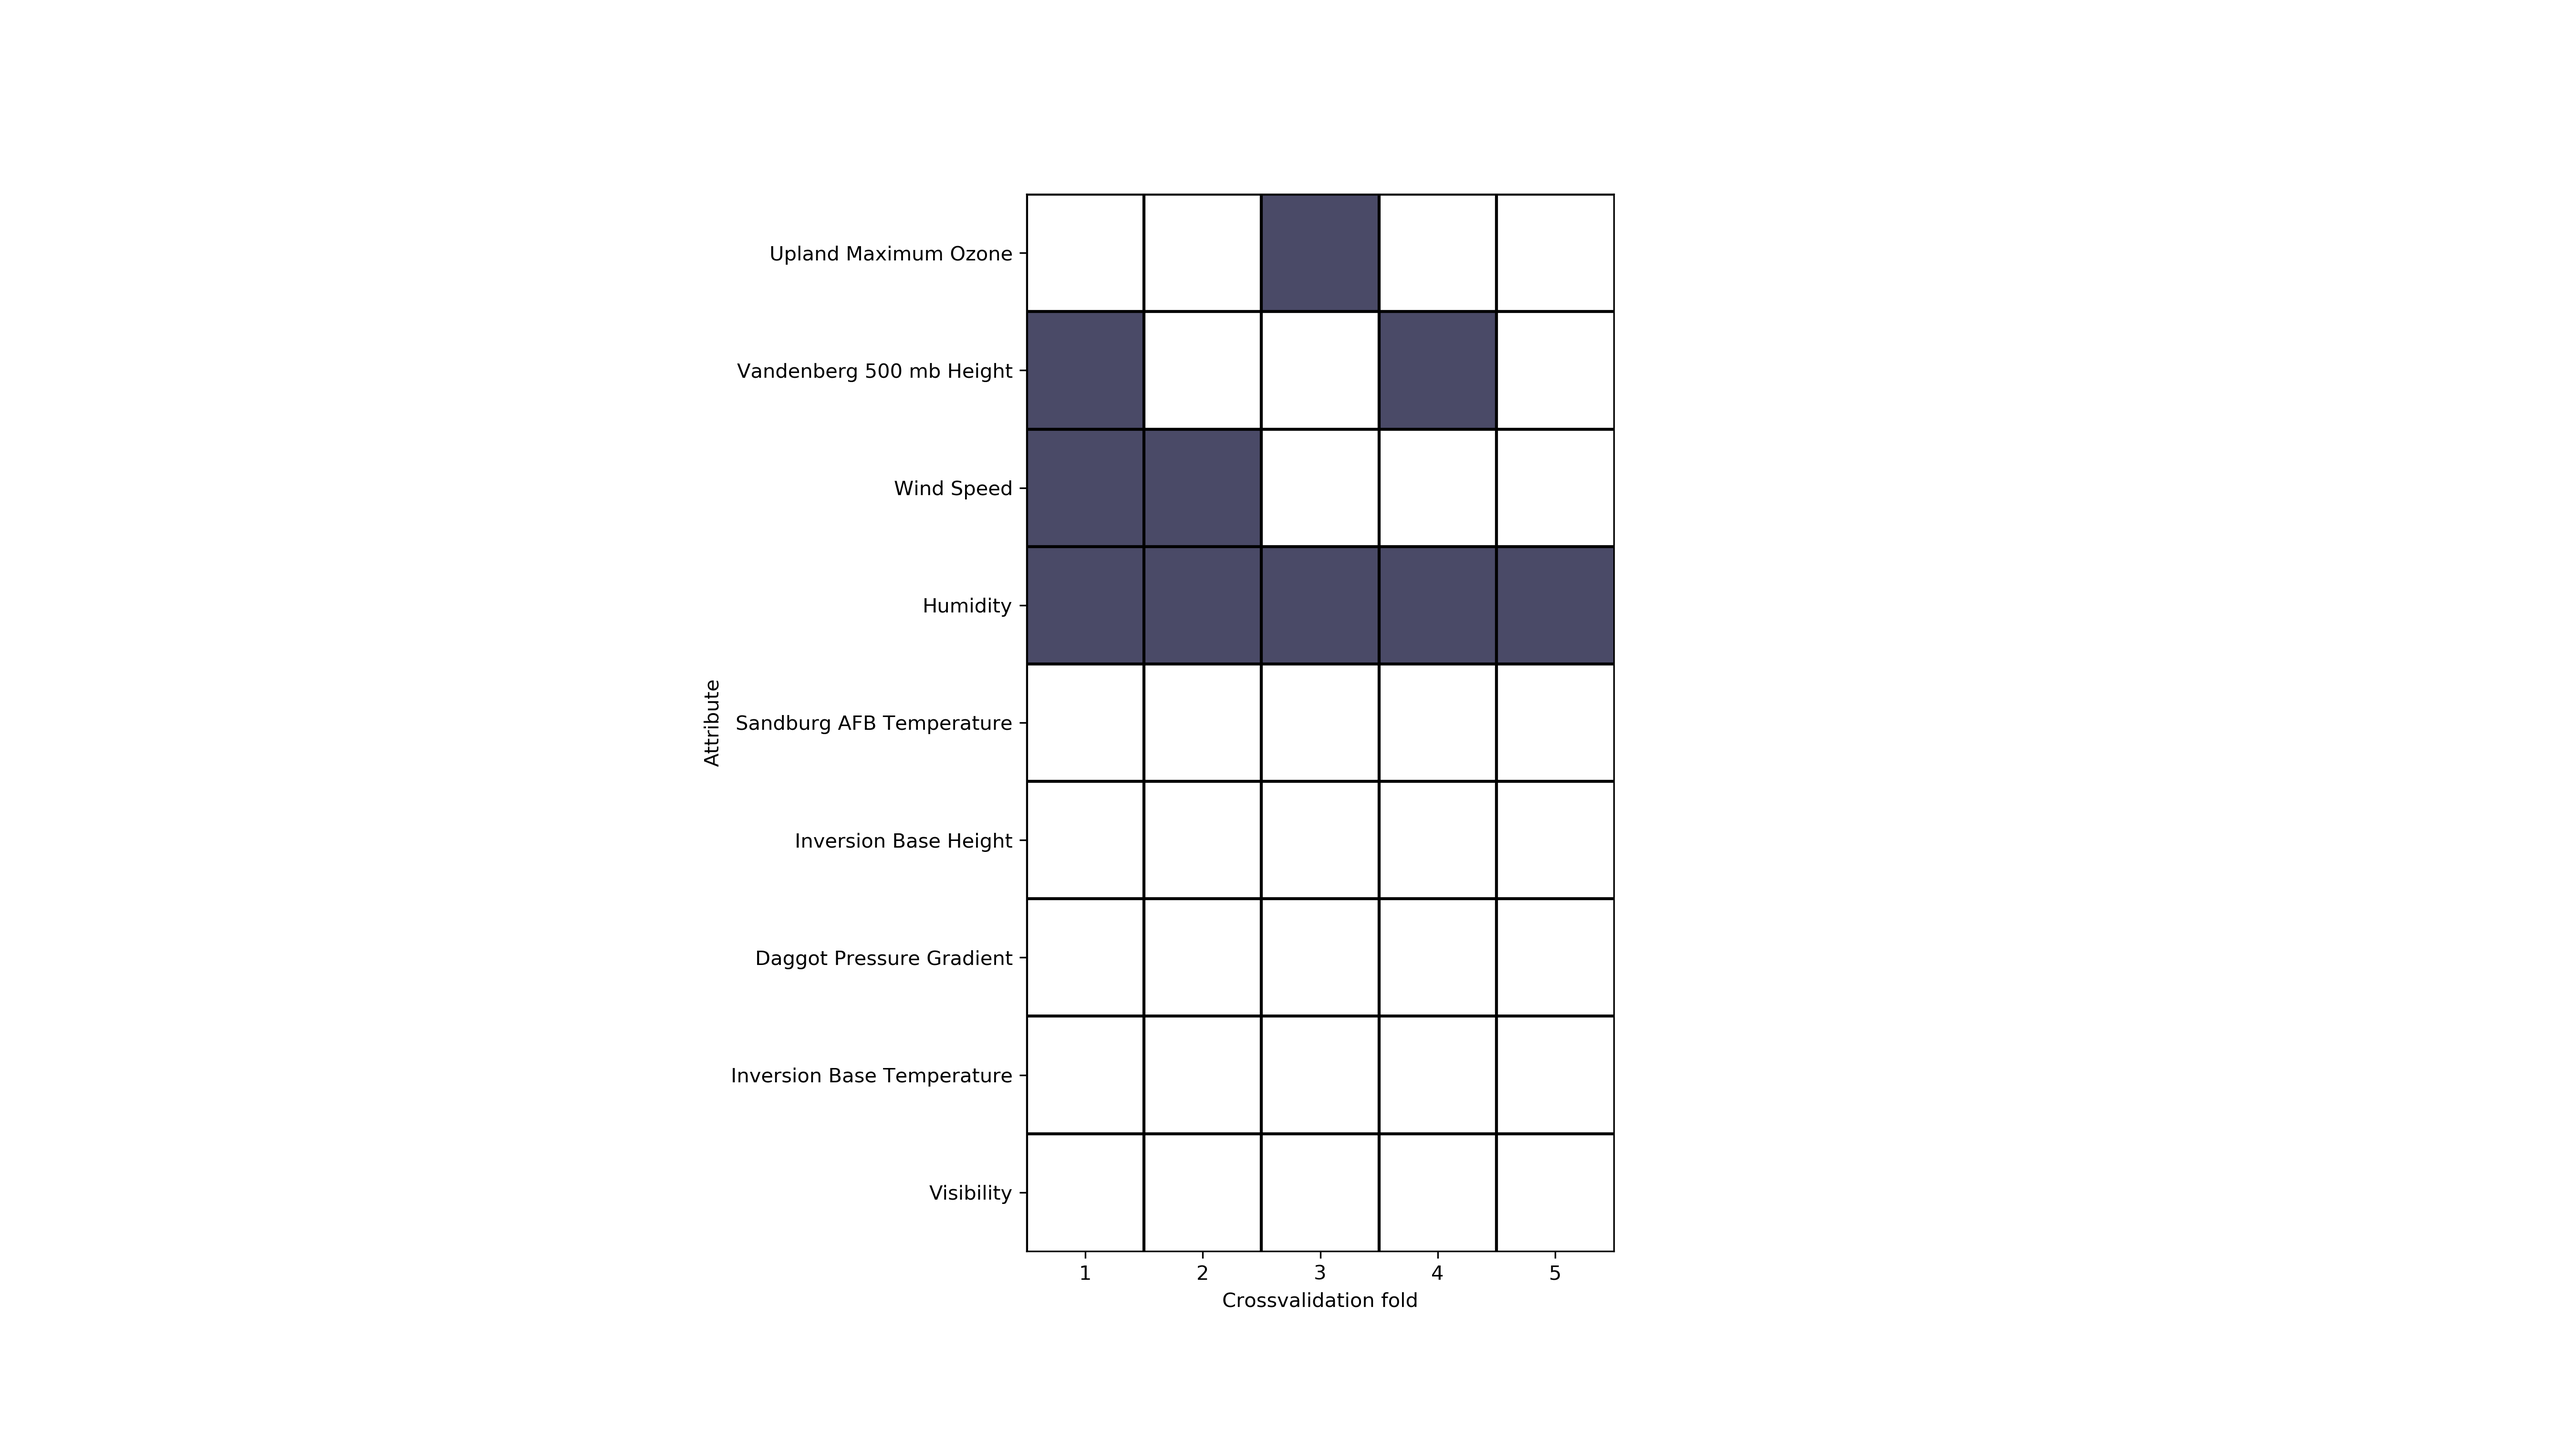
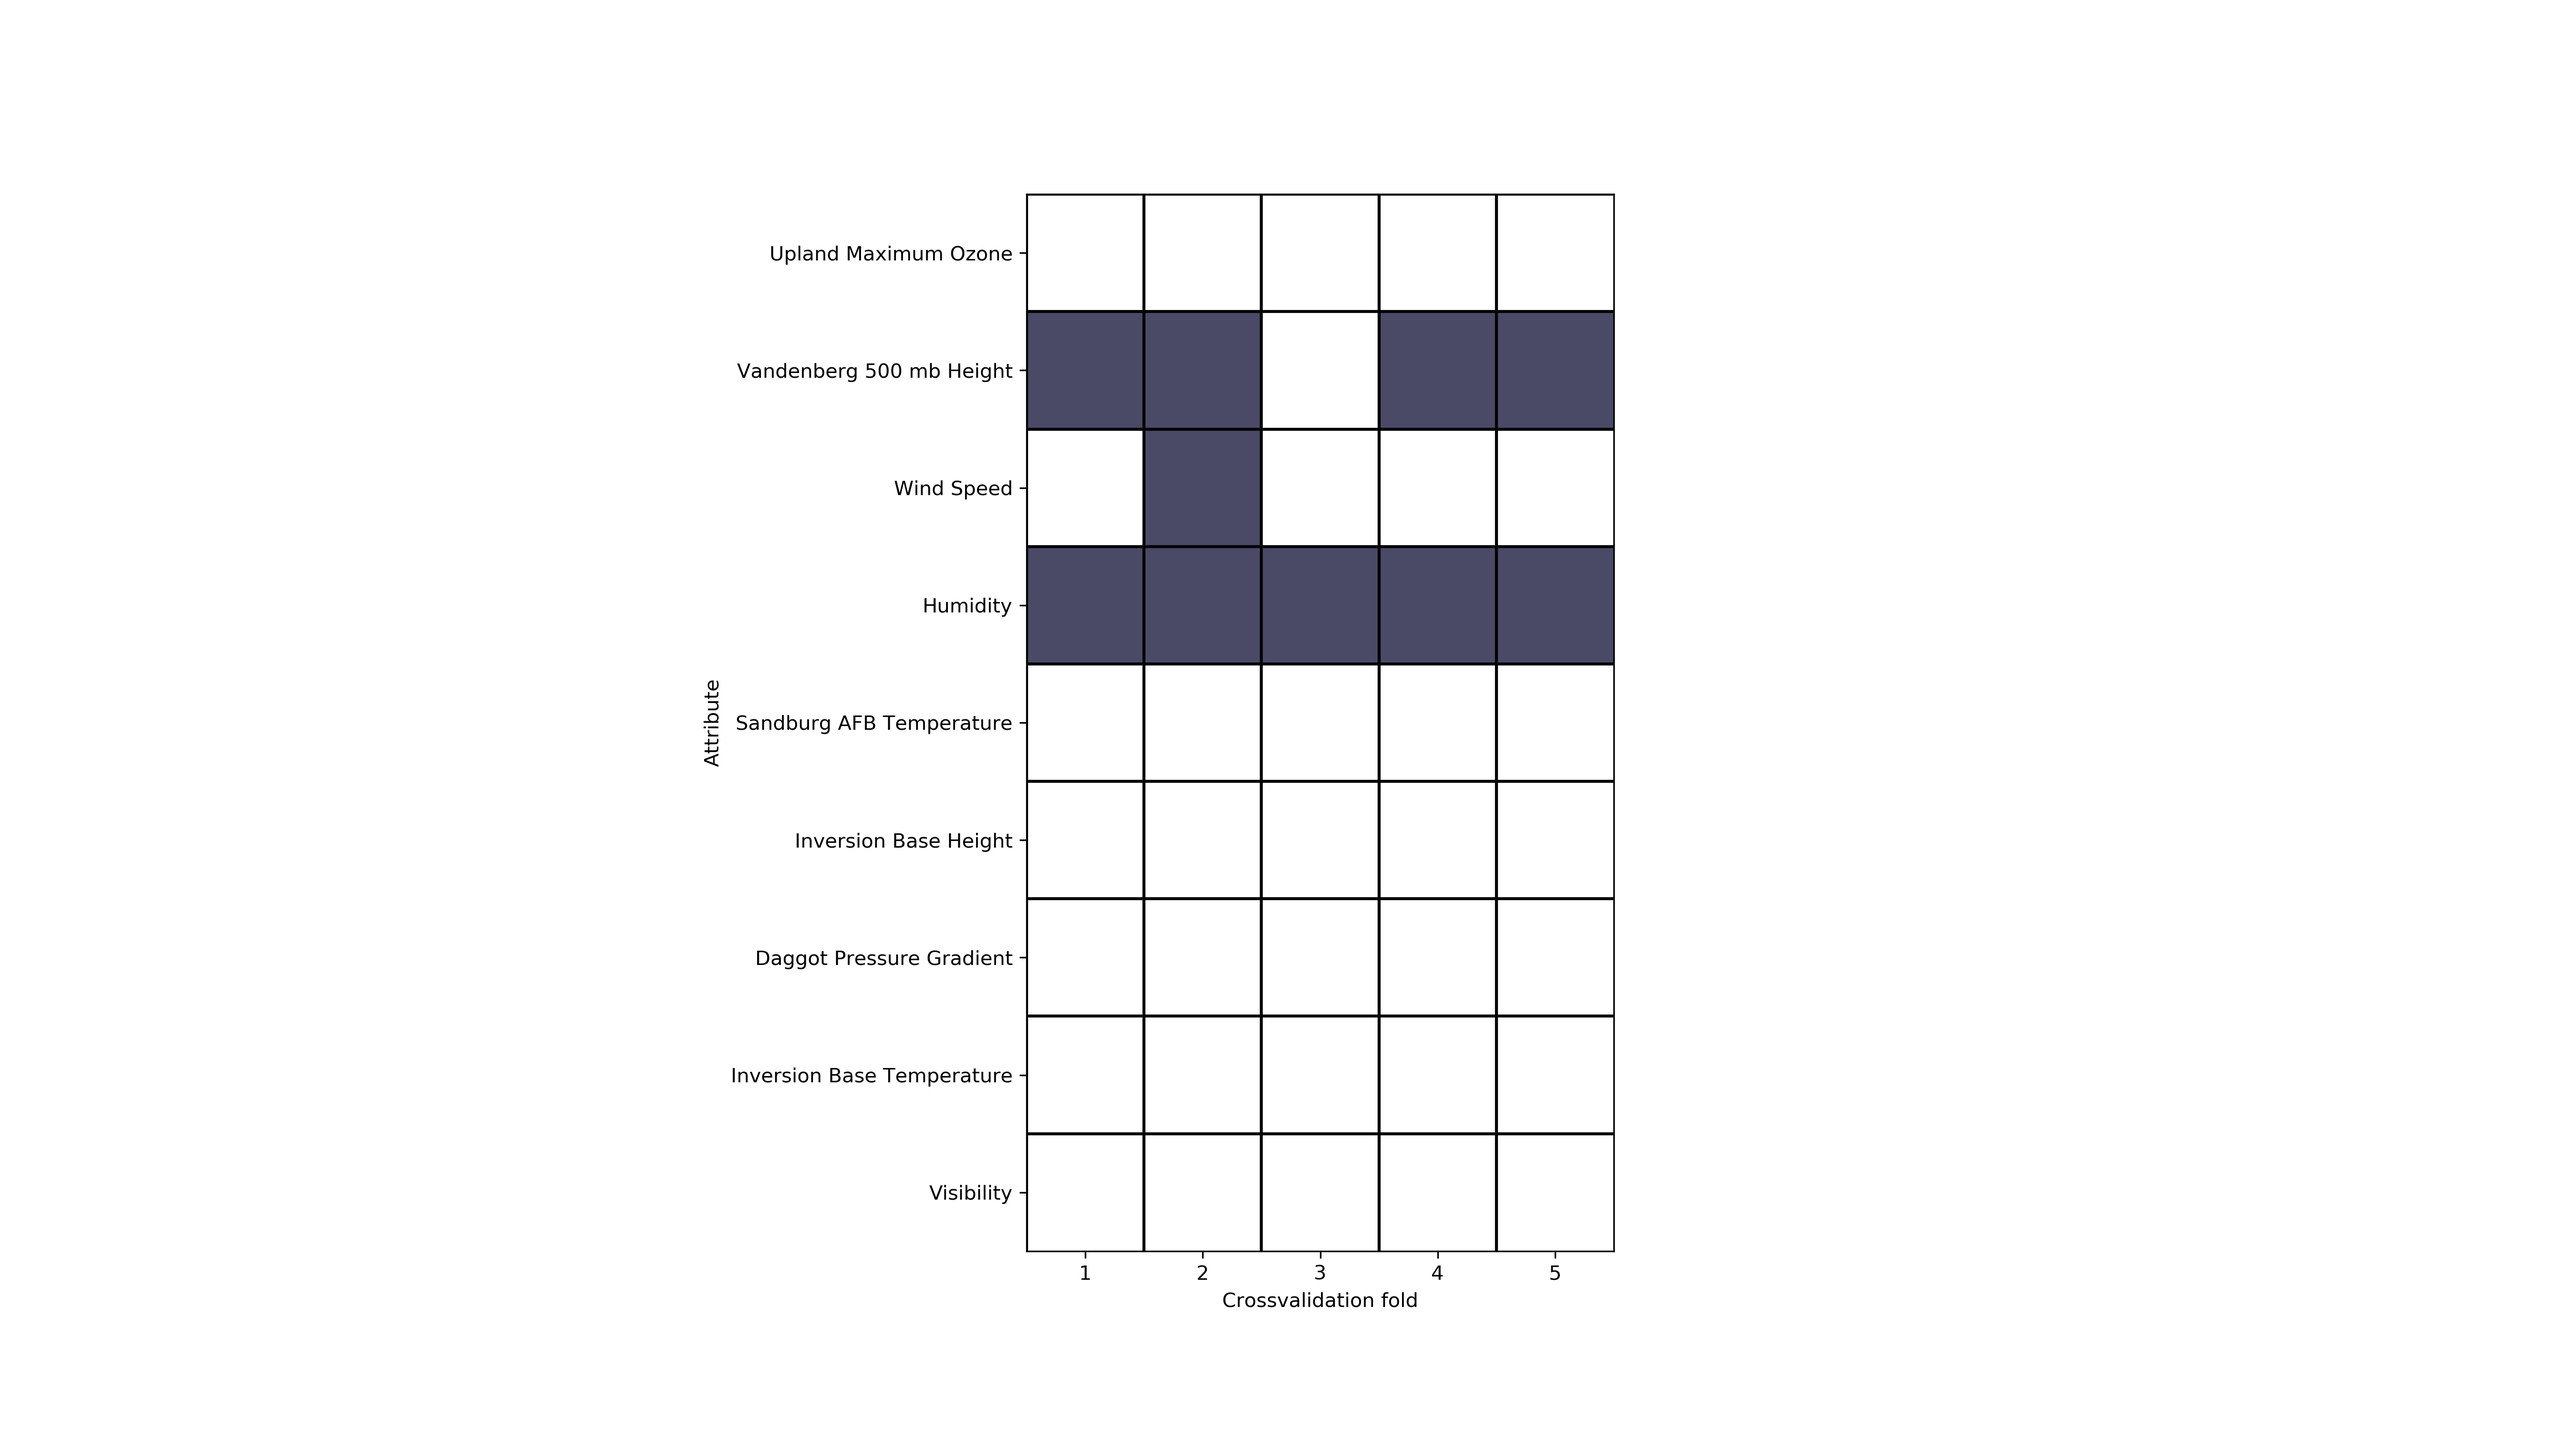
DId some stuff

Changed region(s): [[0.3733, 0.124, 0.56, 0.403], [0.56, 0.217, 0.6533, 0.31]]

diff --git a/Classification/oz_multinomialRegression.py b/Classification/oz_multinomialRegression.py
@@ -7,7 +7,7 @@ import numpy as np
 from importData import *
 
 # Use vandenberg height and humidity
-tempX = Z[:, [2, 3]]
+tempX = X[:, [1, 3]]
 tempY = y
 
 test_mask = [1, 1, 1, 1, 1, 1, 1, 1, 1, 1, 1, 1, 1, 1, 1, 0, 0, 
@@ -36,21 +36,33 @@ X_test = tempX[ix == 1]
 y_train = tempY[test_mask == 0]
 y_test = tempY[test_mask == 1]
 
-# Multinomial logistic regression
-logreg = lm.LogisticRegression(solver='lbfgs', multi_class='multinomial', tol=1e-4, random_state=1)
-logreg.fit(X_train,y_train)
+#%% Model fitting and prediction
+# Standardize data based on training set
+mu = np.mean(X_train, 0)
+sigma = np.std(X_train, 0)
+X_train = (X_train - mu) / sigma
+X_test = (X_test - mu) / sigma
 
-# To display coefficients use print(logreg.coef_). For a 4 class problem with a 
-# feature space, these weights will have shape (4, 2).
 
-# Number of miss-classifications
-print('Number of miss-classifications for Multinormal regression:\n\t {0} out of {1}'.format(np.sum(logreg.predict(X_test)!=y_test),len(y_test)))
 
-predict = lambda x: np.argmax(logreg.predict_proba(x),1)
-plt.figure(2,figsize=(18,10))
+    # Fit multinomial logistic regression model
 
-visualize_decision_boundary(predict, [X_train, X_test], [y_train, y_test], [attributeNames[1], attributeNames[3]], classNames)
+regularization_strength = 1e-2
+    #Try a high strength, e.g. 1e5, especially for synth2, synth3 and synth4
+mdl = lm.LogisticRegression(solver='lbfgs', multi_class='multinomial', 
+                                tol=1e-4, random_state=1, 
+                                penalty='l2', C=1/regularization_strength)
+mdl.fit(X_train,y_train)
+y_test_est = mdl.predict(X_test)
+
+test_error_rate = np.sum(y_test_est!=y_test) / len(y_test)
+
+predict = lambda x: np.argmax(mdl.predict_proba(x),1)
+plt.figure(2,figsize=(9,9))
+visualize_decision_boundary(predict, [X_train, X_test], [y_train, y_test], attributeNames, classNames)
 plt.title('LogReg decision boundaries')
 
-#plt.savefig("project2_figs/fig_MultinomialRegression", dpi=300, transparent=True)
+    # Number of miss-classifications
+print('Number of miss-classifications for Multinormal regression:\n\t {0} out of {1}'.format(np.sum(mdl.predict(X_test)!=y_test),len(y_test)))
+
 plt.show()

diff --git a/Classification/oz_multinomialRegression2.py b/Classification/oz_multinomialRegression2.py
@@ -3,7 +3,7 @@ import numpy as np
 
 from importData import *
 
-tempX = np.delete(Y, range(C, M), axis=1)
+tempX = Y[:, range(M-C)]
 tempY = y
 
 test_mask = [1, 1, 1, 1, 1, 1, 1, 1, 1, 1, 1, 1, 1, 1, 1, 0, 0, 
@@ -23,6 +23,7 @@ test_mask = [1, 1, 1, 1, 1, 1, 1, 1, 1, 1, 1, 1, 1, 1, 1, 0, 0,
     0, 0, 0, 0, 0, 0, 0, 0, 0, 0, 0, 0, 0, 0, 0, 0, 0, 0, 0, 0, 
     0, 0, 0, 0, 0, 1, 1, 1, 1, 0, 0, 0, 0, 0, 0, 0, 0, 0, 0, 0, 
     0, 0, 0, 0, 0, 0, 0, 0, 0, 0, 0, 0, 0]
+
 test_mask = np.asarray(test_mask)
 ix = test_mask.reshape(tempX.shape[0])
 
